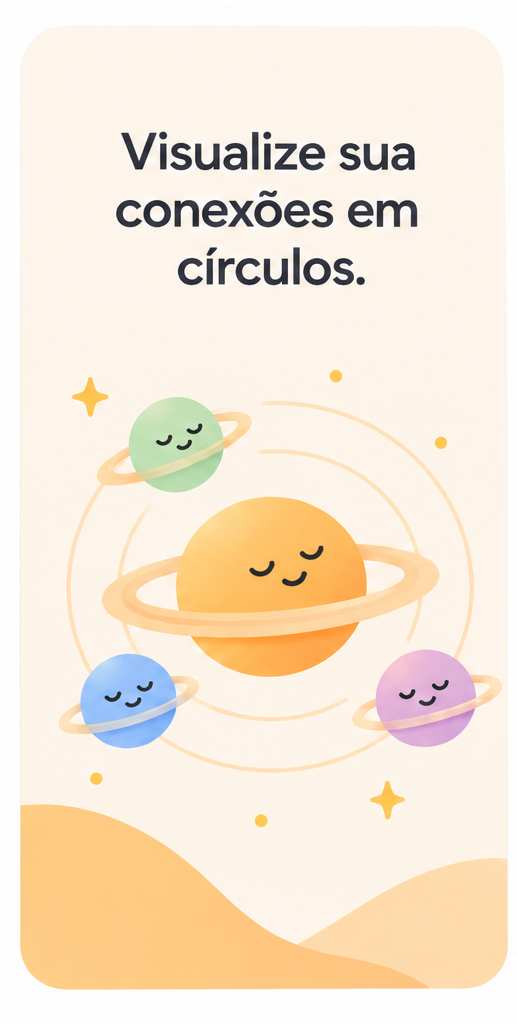
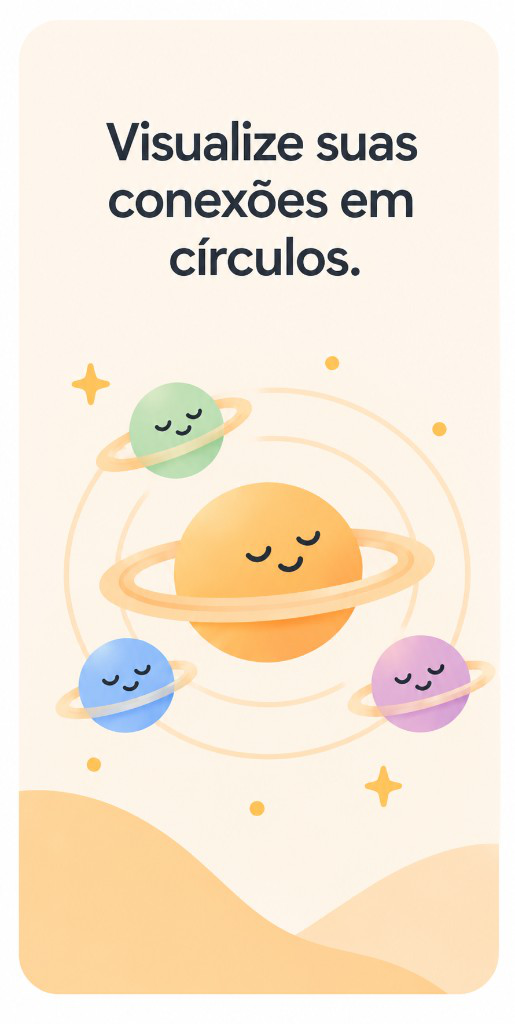
fix: use the final onboarding artwork in the correct slide order

diff --git a/src/lib/onboarding.js b/src/lib/onboarding.js
@@ -2,15 +2,15 @@ const STORAGE_KEY = 'circulo_onboarding_seen'
 
 export const ONBOARDING_SLIDES = [
   {
-    image: '/onboarding/1.png',
+    image: '/onboarding/1.png?v=full',
     title: 'Visualize suas conexões em círculos',
   },
   {
-    image: '/onboarding/2.png',
+    image: '/onboarding/2.png?v=full',
     title: 'Categorize por nível de intimidade',
   },
   {
-    image: '/onboarding/3.png',
+    image: '/onboarding/3.png?v=full',
     title: 'Crie pulsos. Compartilhe, adicione fotos, comente',
   },
 ]
